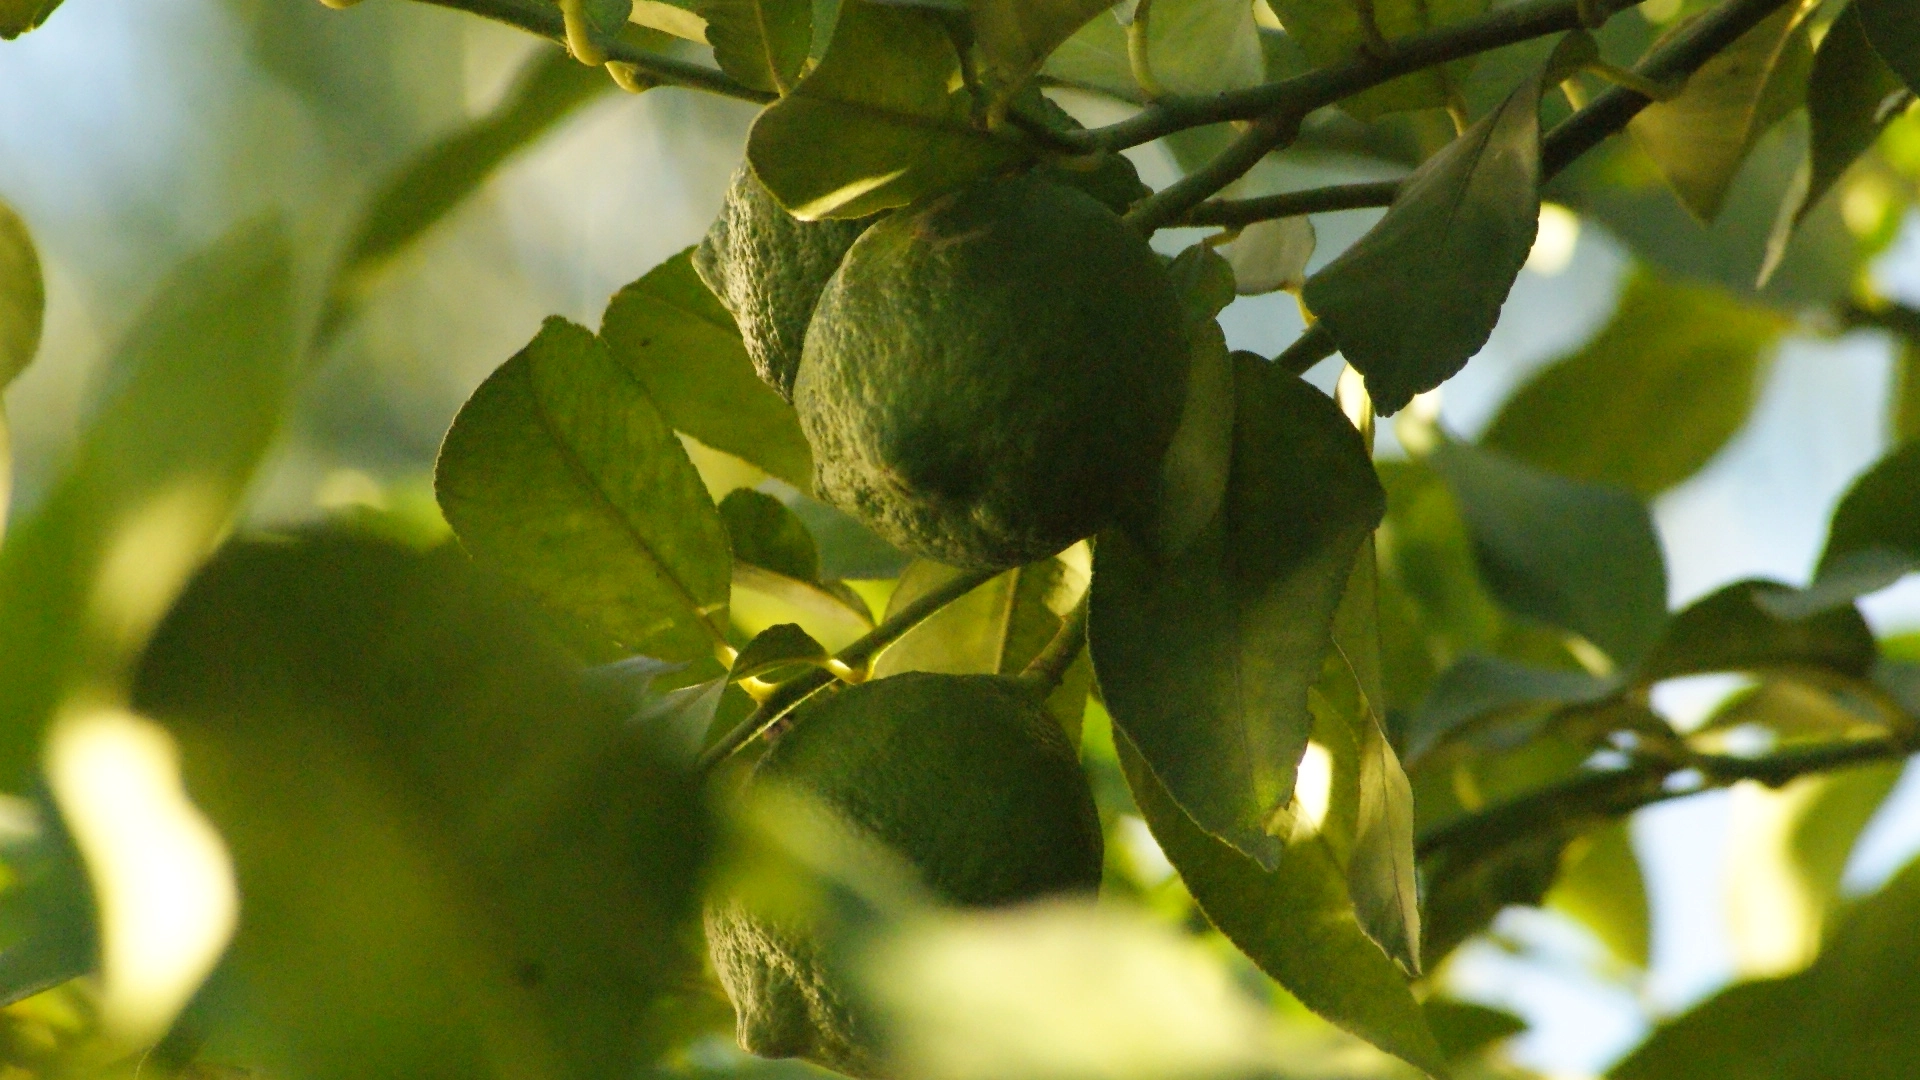
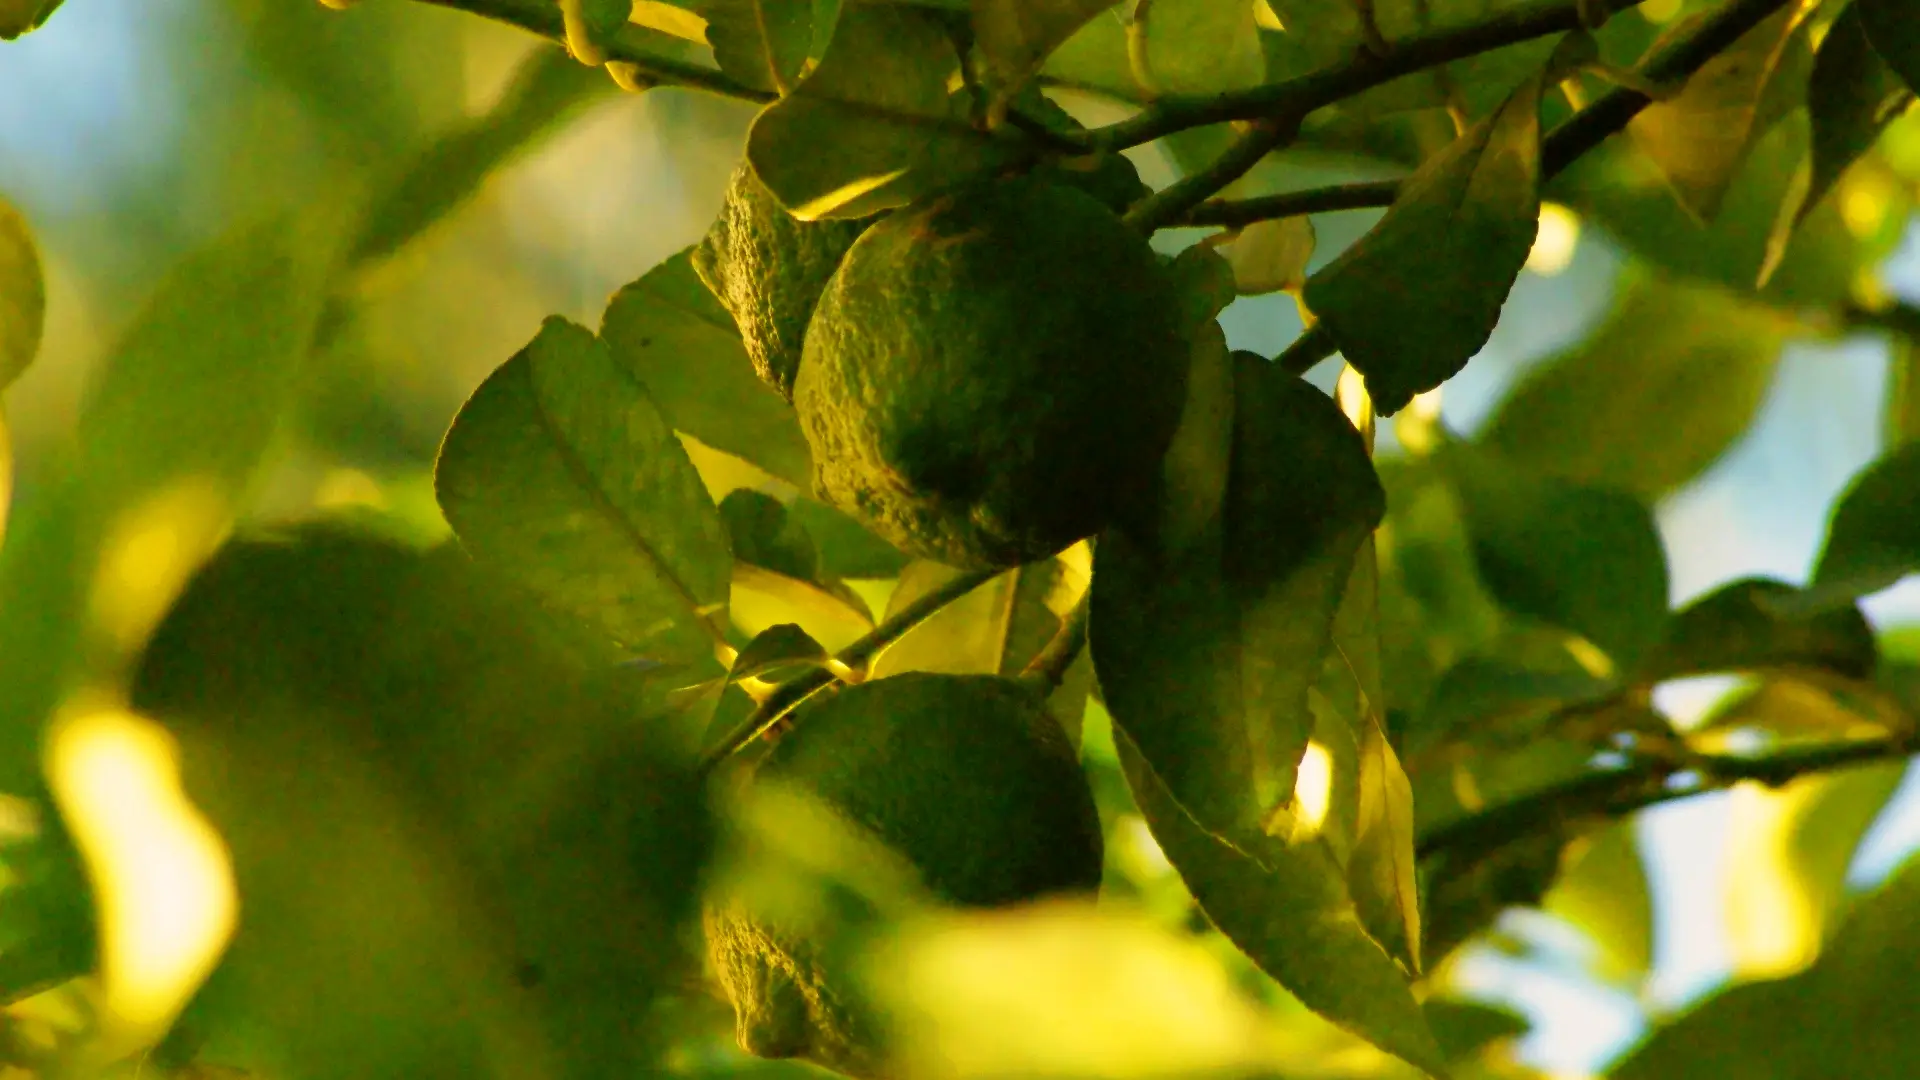
Yendo a un cumpleañitos :p (quiero quedarme a seguir D:

diff --git a/index3.html b/index3.html
@@ -150,20 +150,18 @@
                         como sustituto o complemento del café, ya que aporta un sabor tostado y ligeramente amargo, pero
                         no contiene cafeína.</aside>
                     <div class="item--nature">
-                        <img loading="lazy" decoding="async" class="intro--img"
-                            src="/IMG/Nature/DSC1130111.webp">
+                        <img loading="lazy" decoding="async" class="intro--img" src="/IMG/Nature/DSC1130111.webp">
                     </div>
                 </div>
                 <div class="item">
                     <aside>
-                        <h2>Rosa</h2>Lorem ipsum dolor sit amet, consectetur adipisicing elit. Omnis blanditiis
+                        <h2>Antigonon Leptopus</h2>Lorem ipsum dolor sit amet, consectetur adipisicing elit. Omnis blanditiis
                         consectetur
                         reprehenderit impedit quisquam esse temporibus, maiores nulla soluta neque nemo nam odit
                         dignissimos. Eius mollitia numquam voluptates! Consequuntur, ipsa.
                     </aside>
                     <div class="item--nature">
-                        <img loading="lazy" decoding="async" class="intro--img"
-                            src="/IMG/Nature/DSC9021.webp">
+                        <img loading="lazy" decoding="async" class="intro--img" src="/IMG/Nature/DSC9021.webp">
                     </div>
                     <aside>Lorem ipsum dolor sit amet, consectetur adipisicing elit. Omnis blanditiis consectetur
                         reprehenderit impedit quisquam esse temporibus, maiores nulla soluta neque nemo nam odit
@@ -171,8 +169,7 @@
                 </div>
                 <div class="item">
                     <div class="item--nature">
-                        <img loading="lazy" decoding="async" class="intro--img"
-                            src="/IMG/Nature/DSC8348.jpg">
+                        <img loading="lazy" decoding="async" class="intro--img" src="/IMG/Nature/DSC8348.jpg">
                     </div>
                     <aside>
                         <h2>Cactus San Pedro</h2>El nombre San Pedro se atribuye a la tradición popular andina. Según
@@ -192,8 +189,7 @@
                         características similares.
                     </aside>
                     <div class="item--nature">
-                        <img loading="lazy" decoding="async" class="intro--img"
-                            src="/IMG/Nature/DSC8305.webp">
+                        <img loading="lazy" decoding="async" class="intro--img" src="/IMG/Nature/DSC8305.webp">
                     </div>
                     <aside>Las flores del hibisco suelen durar solo un día, pero la planta produce nuevos capullos de
                         forma continua durante la temporada de floración, por lo que puede mantenerse llena de flores
@@ -209,8 +205,7 @@
                         botánico. Pertenecen a un grupo distinto de plantas y no forman anillos de crecimiento como los
                         árboles tradicionales.</aside>
                     <div class="item--nature">
-                        <img loading="lazy" decoding="async" class="intro--img"
-                            src="/IMG/Nature/DSC2410-2.jpg">
+                        <img loading="lazy" decoding="async" class="intro--img" src="/IMG/Nature/DSC2410-2.jpg">
                     </div>
                 </div>
                 <div class="item">
@@ -220,8 +215,7 @@
                         con los dedos separados.
                     </aside>
                     <div class="item--nature">
-                        <img loading="lazy" decoding="async" class="intro--img"
-                            src="/IMG/Nature/DSC8318.webp">
+                        <img loading="lazy" decoding="async" class="intro--img" src="/IMG/Nature/DSC8318.webp">
                     </div>
                     <aside>WTF??? Aunque muchas personas las consideran árboles, las palmeras no son árboles en sentido
                         botánico. Pertenecen a un grupo distinto de plantas y no forman anillos de crecimiento como los
@@ -229,8 +223,7 @@
                 </div>
                 <div class="item">
                     <div class="item--nature">
-                        <img loading="lazy" decoding="async" class="intro--img"
-                            src="/IMG/Nature/DSC8013.webp">
+                        <img loading="lazy" decoding="async" class="intro--img" src="/IMG/Nature/DSC8013.webp">
                     </div>
                     <aside>
                         <h2>Menta</h2>La palabra palmera proviene del latín palma, que significa "palma de la mano".
@@ -248,8 +241,7 @@
                         con los dedos separados.
                     </aside>
                     <div class="item--nature">
-                        <img loading="lazy" decoding="async" class="intro--img"
-                            src="/IMG/Nature/DSC2410-2.jpg">
+                        <img loading="lazy" decoding="async" class="intro--img" src="/IMG/Nature/DSC3937.jpg">
                     </div>
                     <aside>WTF??? Aunque muchas personas las consideran árboles, las palmeras no son árboles en sentido
                         botánico. Pertenecen a un grupo distinto de plantas y no forman anillos de crecimiento como los
@@ -265,8 +257,7 @@
                         botánico. Pertenecen a un grupo distinto de plantas y no forman anillos de crecimiento como los
                         árboles tradicionales.</aside>
                     <div class="item--nature">
-                        <img loading="lazy" decoding="async" class="intro--img"
-                            src="/IMG/Nature/DSC2410-2.jpg">
+                        <img loading="lazy" decoding="async" class="intro--img" src="/IMG/Nature/DSC2410-2.jpg">
                     </div>
                 </div>
             </div>
@@ -305,28 +296,33 @@
                             <div class="swiper-slide swiper-slide-nature"><img class="intro--img"
                                     src="/IMG/Nature/DSC7690.webp" loading="lazy" decoding="async">
                             </div>
-                            <div class="swiper-slide swiper-slide-nature"><img class="intro--img"
+                        </div>
+                        <div class="swiper-pagination"></div>
+                    </div>
+                    <div class="swiper carrusel-flores2">
+                        <div class="swiper-wrapper">
+                            <div class="swiper-slide swiper-slide-nature2"><img class="intro--img"
                                     src="/IMG/Nature/DSC8696.webp" loading="lazy" decoding="async">
                             </div>
-                            <div class="swiper-slide swiper-slide-nature"><img class="intro--img"
+                            <div class="swiper-slide swiper-slide-nature2"><img class="intro--img"
                                     src="/IMG/Nature/DSC9061.jpg" loading="lazy" decoding="async">
                             </div>
-                            <div class="swiper-slide swiper-slide-nature"><img class="intro--img"
+                            <div class="swiper-slide swiper-slide-nature2"><img class="intro--img"
                                     src="/IMG/Nature/DSC9079.webp" loading="lazy" decoding="async">
                             </div>
-                            <div class="swiper-slide swiper-slide-nature"><img class="intro--img"
+                            <div class="swiper-slide swiper-slide-nature2"><img class="intro--img"
                                     src="/IMG/Nature/DSC9089.jpg" loading="lazy" decoding="async">
                             </div>
-                            <div class="swiper-slide swiper-slide-nature"><img class="intro--img"
+                            <div class="swiper-slide swiper-slide-nature2"><img class="intro--img"
                                     src="/IMG/Nature/DSC9102.webp" loading="lazy" decoding="async">
                             </div>
-                            <div class="swiper-slide swiper-slide-nature"><img class="intro--img"
+                            <div class="swiper-slide swiper-slide-nature2"><img class="intro--img"
                                     src="/IMG/Nature/DSC134911.webp" loading="lazy" decoding="async">
                             </div>
-                            <div class="swiper-slide swiper-slide-nature"><img class="intro--img"
+                            <div class="swiper-slide swiper-slide-nature2"><img class="intro--img"
                                     src="/IMG/Nature/IMG_20260322_143451.jpg" loading="lazy" decoding="async">
                             </div>
-                            <div class="swiper-slide swiper-slide-nature"><img class="intro--img"
+                            <div class="swiper-slide swiper-slide-nature2"><img class="intro--img"
                                     src="/IMG/Nature/DSC8354.jpg" loading="lazy" decoding="async">
                             </div>
                         </div>
@@ -376,7 +372,7 @@
                     </div>
                 </div>
                 <div class="flower-container-item">
-                    <h2 class="flower-container-item-title">--Rosa ??--</h2>
+                    <h2 class="flower-container-item-title">--Antigonon Leptopus--</h2>
                     <div class="flower-container-grid flower-container-grid-RosaRara">
                         <div class="flower-container-grid-item flower-container-grid-RosaRara-item">
                             <img class="intro--img" src="/IMG/Nature/DSC9013.webp" data-text="" loading="lazy"
@@ -389,6 +385,23 @@
                         <div class="flower-container-grid-item flower-container-grid-RosaRara-item">
                             <img class="intro--img" src="/IMG/Nature/DSC9021.webp" data-text="" loading="lazy"
                                 decoding="async">
+                        </div>
+                    </div>
+                </div>
+                <div class="flower-container-item">
+                    <h2 class="flower-container-item-title">--Cactus--</h2>
+                    <div class="flower-container-grid flower-container-grid-cactus">
+                        <div class="flower-container-grid-item flower-container-grid-cactus-item">
+                            <img class="intro--img" src="/IMG/Nature/DSC8351.webp" loading="lazy" decoding="async">
+                        </div>
+                        <div class="flower-container-grid-item flower-container-grid-cactus-item">
+                            <img class="intro--img" src="/IMG/Nature/DSC8348.jpg" loading="lazy" decoding="async">
+                        </div>
+                        <div class="flower-container-grid-item flower-container-grid-cactus-item">
+                            <img class="intro--img" src="/IMG/Nature/IMG_20250314_190705.jpg" loading="lazy" decoding="async">
+                        </div>
+                        <div class="flower-container-grid-item flower-container-grid-cactus-item">
+                            <img class="intro--img" src="/IMG/Nature/DSC2873.webp" loading="lazy" decoding="async">
                         </div>
                     </div>
                 </div>
@@ -450,13 +463,30 @@
                         <div class="flower-container-grid-item flower-container-grid-menta-item">
                             <img class="intro--img" src="/IMG/Nature/DSC8013.webp" loading="lazy" decoding="async">
                         </div>
-                        
+
+                    </div>
+                </div>
+                <div class="flower-container-item">
+                    <h2 class="flower-container-item-title">--Romero--</h2>
+                    <div class="flower-container-grid flower-container-grid-romero">
+                        <div class="flower-container-grid-item flower-container-grid-romero-item">
+                            <img class="intro--img" src="/IMG/Nature/DSC3944.jpg" loading="lazy" decoding="async">
+                        </div>
+                        <div class="flower-container-grid-item flower-container-grid-romero-item">
+                            <img class="intro--img" src="/IMG/Nature/DSC03951.jpg" loading="lazy" decoding="async">
+                        </div>
+                        <div class="flower-container-grid-item flower-container-grid-romero-item">
+                            <img class="intro--img" src="/IMG/Nature/DSC3969.jpg" loading="lazy" decoding="async">
+                        </div>
+                        <div class="flower-container-grid-item flower-container-grid-romero-item">
+                            <img class="intro--img" src="/IMG/Nature/DSC3937.jpg" loading="lazy" decoding="async">
+                        </div>
                     </div>
                 </div>
                 <div class="flower-container-item">
                     <h2 class="flower-container-item-title">----</h2>
                     <div class="flower-container-grid flower-container-grid-#">
-                        <div class="flower-container-grid flower-container-grid-#-item">
+                        <div class="flower-container-grid-item flower-container-grid-#-item">
                             <img class="intro--img" src="/IMG/Nature/" loading="lazy" decoding="async">
                         </div>
                     </div>
@@ -464,7 +494,7 @@
                 <div class="flower-container-item">
                     <h2 class="flower-container-item-title">----</h2>
                     <div class="flower-container-grid flower-container-grid-#">
-                        <div class="flower-container-grid flower-container-grid-#-item">
+                        <div class="flower-container-grid-item flower-container-grid-#-item">
                             <img class="intro--img" src="/IMG/Nature/" loading="lazy" decoding="async">
                         </div>
                     </div>

diff --git a/index.css b/index.css
@@ -982,7 +982,9 @@ hr {
     overflow: hidden;
     margin: 4% 0;
 }
-
+.flower-container-item .carrusel-flores{
+    margin-bottom: 2%;
+}
 .flower-container-item:last-child {
     margin-bottom: 10%;
 }
@@ -1022,8 +1024,8 @@ hr {
 
 /*Carrousel abajo*/
 .carrusel-flores2 {
-    height: 500px;
-    width: 90%;
+    width: min(90%, 1200px);
+    aspect-ratio: 3 / 2;
     overflow-y: hidden;
 }
 
@@ -1053,10 +1055,11 @@ hr {
     gap: 1px;
     width: 90%;
     margin: auto;
+    border: 2px solid var(--box-shadow)
 }
 
 .flower-container-grid-item {
-    overflow: hidden;cd 
+    overflow: hidden;
 }
 
 .flower-container-grid .flower-container-grid-item:hover .intro--img {
@@ -1078,7 +1081,6 @@ hr {
 .flower-container-grid-item:last-child {
     grid-column: span 3;
 }
-
 .flower-container-grid-achicoria {
     display: grid;
     gap: 1px;
@@ -1095,7 +1097,22 @@ hr {
 .flower-container-grid-achicoria-item:nth-child(2) {
     grid-row: span 2;
 }
-
+.flower-container-grid-cactus{
+    grid-template-columns: repeat(4,1fr);
+}
+.flower-container-grid-cactus-item:first-child{
+    grid-column: span 3;
+}
+.flower-container-grid-cactus-item:nth-child(2){
+    grid-row: span 2;
+}
+.flower-container-grid-cactus-item:nth-child(3){
+    grid-column: span 2;
+}
+.flower-container-grid-cactus-item:last-child{
+    grid-column: span 2;
+    grid-row: span 2;
+}
 .flower-container-grid-palmera-item:first-child {
     grid-row: span 3;
 }
@@ -1137,6 +1154,18 @@ hr {
 .flower-container-grid-menta-item:last-child{
     grid-column:span 2;
     grid-row:span 2;
+}
+.flower-container-grid-romero{
+    grid-template-columns: repeat(4, 1fr);
+}
+.flower-container-grid-romero-item:first-child{
+    grid-column: span 3;
+}
+.flower-container-grid-romero-item:nth-child(2){
+    grid-row: span 2;
+}
+.flower-container-grid-romero-item:nth-child(3),.flower-container-grid-romero-item:last-child{
+    grid-column:span 2;
 }
 @media (max-width: 900px) {
 
@@ -1262,6 +1291,6 @@ hr {
     }
 
     .swiper-pagination {
-        opacity: 0;
+        opacity: 0.5;
     }
 }

diff --git a/index.js b/index.js
@@ -88,26 +88,25 @@ if (window.location.pathname.includes("index3.html")) {
         },
         breakpoints: {
             480: { slidesPerView: 2, grid: { rows: 1 } },
-            768: { slidesPerView: 3, grid: { rows: 2 } },
-            1024: { slidesPerView: 4, grid: { rows: 2 } },
+            768: { slidesPerView: 3, grid: { rows: 1 } },
+            1024: { slidesPerView: 4, grid: { rows: 1 } },
         }
     });
 
     var swiper2 = new Swiper(".carrusel-flores2", {
-        slidesPerView: 2,
+        slidesPerView: 1,
         loop: true,
-        /*autoplay: {
-            delay: 4000,
-            disableOnInteraction: false,
-        },*/
+        grid: { rows: 1 },  // en mobile, una fila
         spaceBetween: 10,
         pagination: {
             el: ".swiper-pagination",
             clickable: true,
-            type: "fraction" //bullets - fraction - progressbar
+            type: "fraction"
         },
         breakpoints: {
-            768 : {slidesPerView: 2},
+            480: { slidesPerView: 2, grid: { rows: 1 } },
+            768: { slidesPerView: 3, grid: { rows: 1 } },
+            1024: { slidesPerView: 4, grid: { rows: 1 } },
         }
     });
 }
